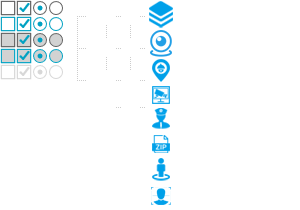
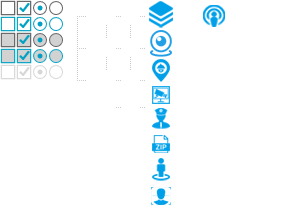
资源列表树改图标

Changed region(s): [[0.66, 0.0, 0.75, 0.1429]]

diff --git a/asset/introduce/zTree/css/zTreeStyle/zTreeStyle.css b/asset/introduce/zTree/css/zTreeStyle/zTreeStyle.css
@@ -131,3 +131,9 @@ ul.ztree.zTreeDragUL {margin:0; padding:0; position:absolute; width:auto; height
 .ztree li a.curSelectedNode span.button.cam_ico_open, .ztree li a.curSelectedNode span.button.cam_ico_close {
 	background-position: -173px -184px;
 }
+.ztree li span.button.md_ico_open, .ztree li span.button.md_ico_close {
+  background-position: -200px -3px;
+}
+.ztree li a.curSelectedNode span.button.md_ico_open, .ztree li a.curSelectedNode span.button.md_ico_close {
+  background-position: -226px -3px;
+}
